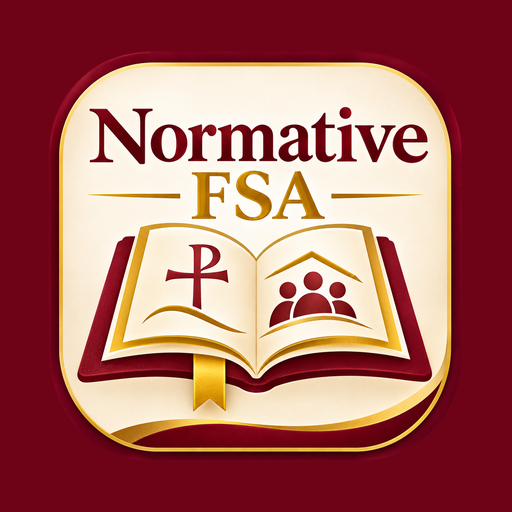
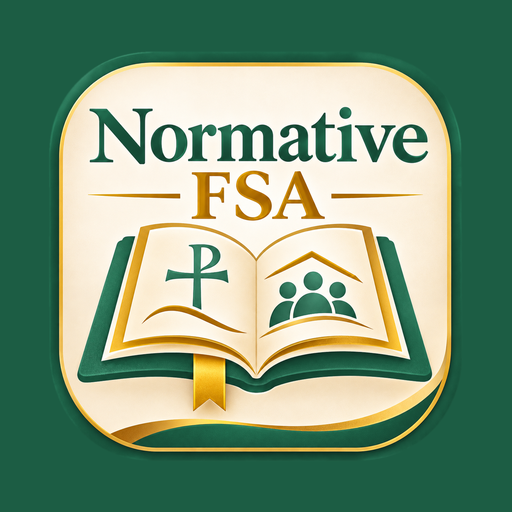
Icona in verde e oro
Claude-Session: https://claude.ai/code/session_01FU8d7GFdDUtrLJUyvZDoGE

diff --git a/index.html b/index.html
@@ -9,8 +9,8 @@
 <meta name="robots" content="noindex,nofollow">
 <meta name="apple-mobile-web-app-status-bar-style" content="black-translucent">
 <link rel="manifest" href="manifest.webmanifest">
-<link rel="apple-touch-icon" href="icons/icon-180.png?v=2">
-<link rel="icon" href="icons/icon-192.png?v=2">
+<link rel="apple-touch-icon" href="icons/icon-180.png?v=3">
+<link rel="icon" href="icons/icon-192.png?v=3">
 <title>Normative FSA</title>
 <style>
 :root{--ink:#1d2433;--navy:#1d4a3b;--navy2:#2e6b57;--gold:#a5813f;--gold2:#f3ead7;--paper:#fbf8f2;--card:#fff;--line:#e6dfd0;--muted:#6b7280;--mark:#ffe58a;--cur:#ffb454;--ok:#2f7d4f;--rev:#b7791f;--serif:"Iowan Old Style","Palatino Linotype",Palatino,Georgia,serif;--sans:-apple-system,BlinkMacSystemFont,"Segoe UI",Helvetica,Arial,sans-serif}

diff --git a/sw.js b/sw.js
@@ -1,4 +1,4 @@
-const V='nf-v3';
+const V='nf-v4';
 const SHELL=['./','index.html','manifest.webmanifest','icons/icon-192.png','icons/icon-512.png','data.js?v=1'];
 self.addEventListener('install',e=>{e.waitUntil(caches.open(V).then(c=>c.addAll(SHELL)).then(()=>self.skipWaiting()))});
 self.addEventListener('activate',e=>{e.waitUntil(caches.keys().then(ks=>Promise.all(ks.filter(k=>k!==V).map(k=>caches.delete(k)))).then(()=>self.clients.claim()))});
